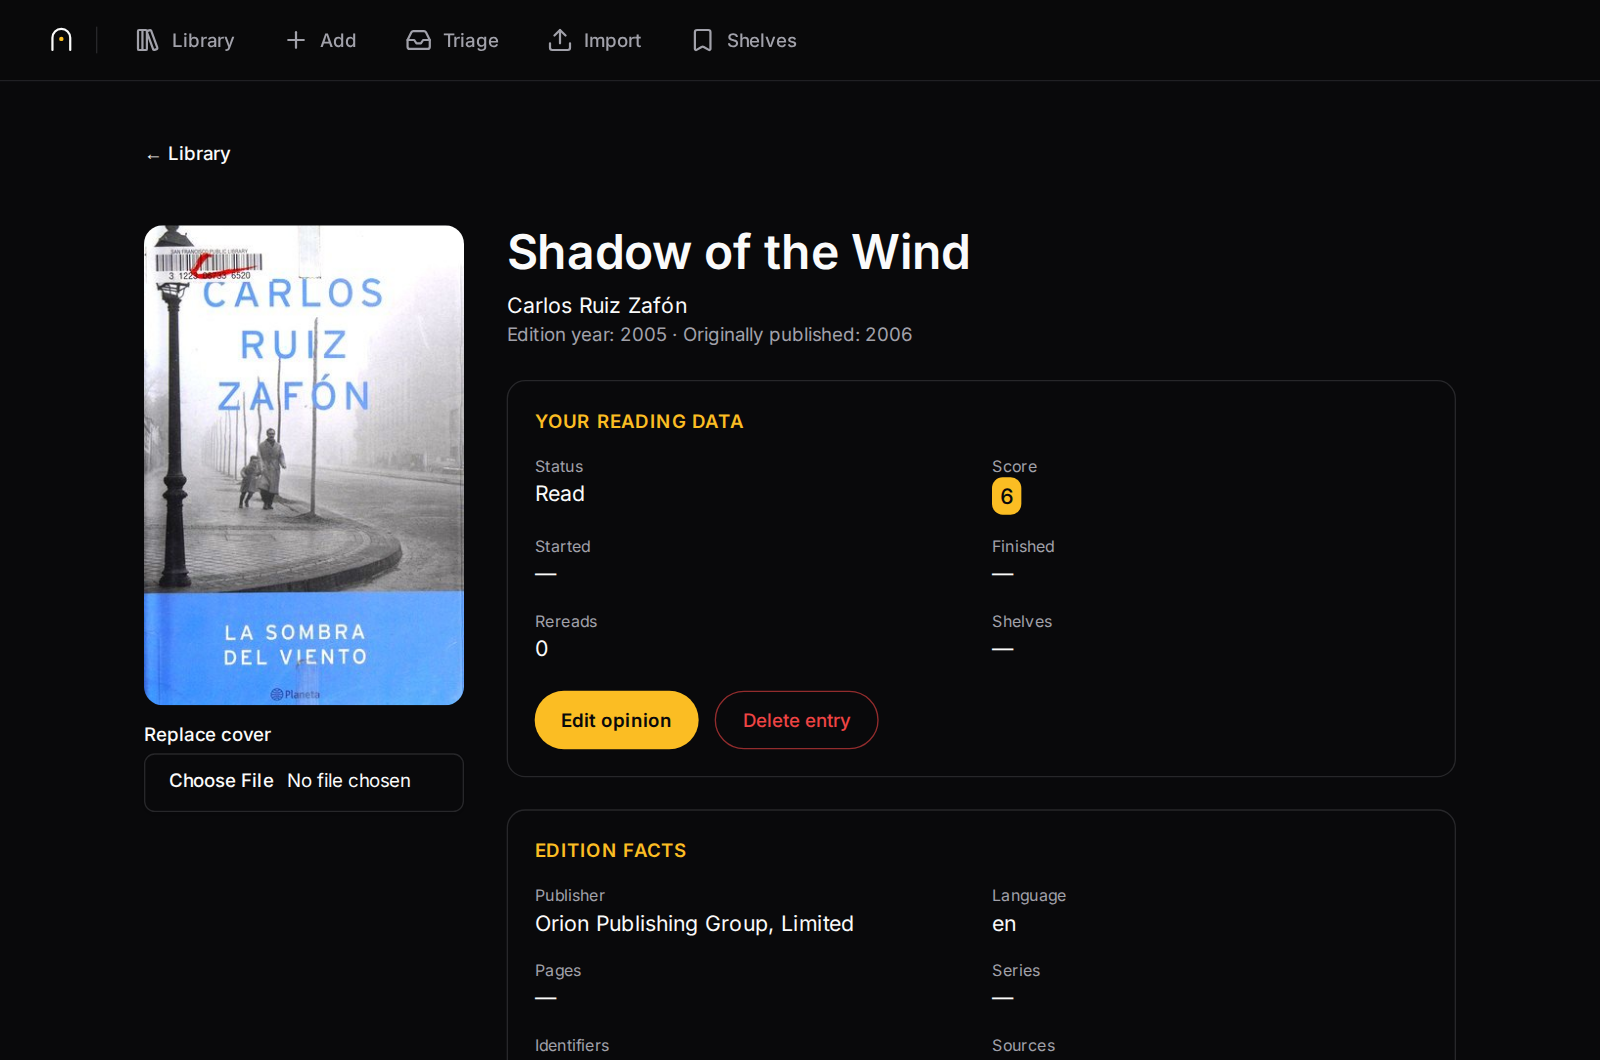
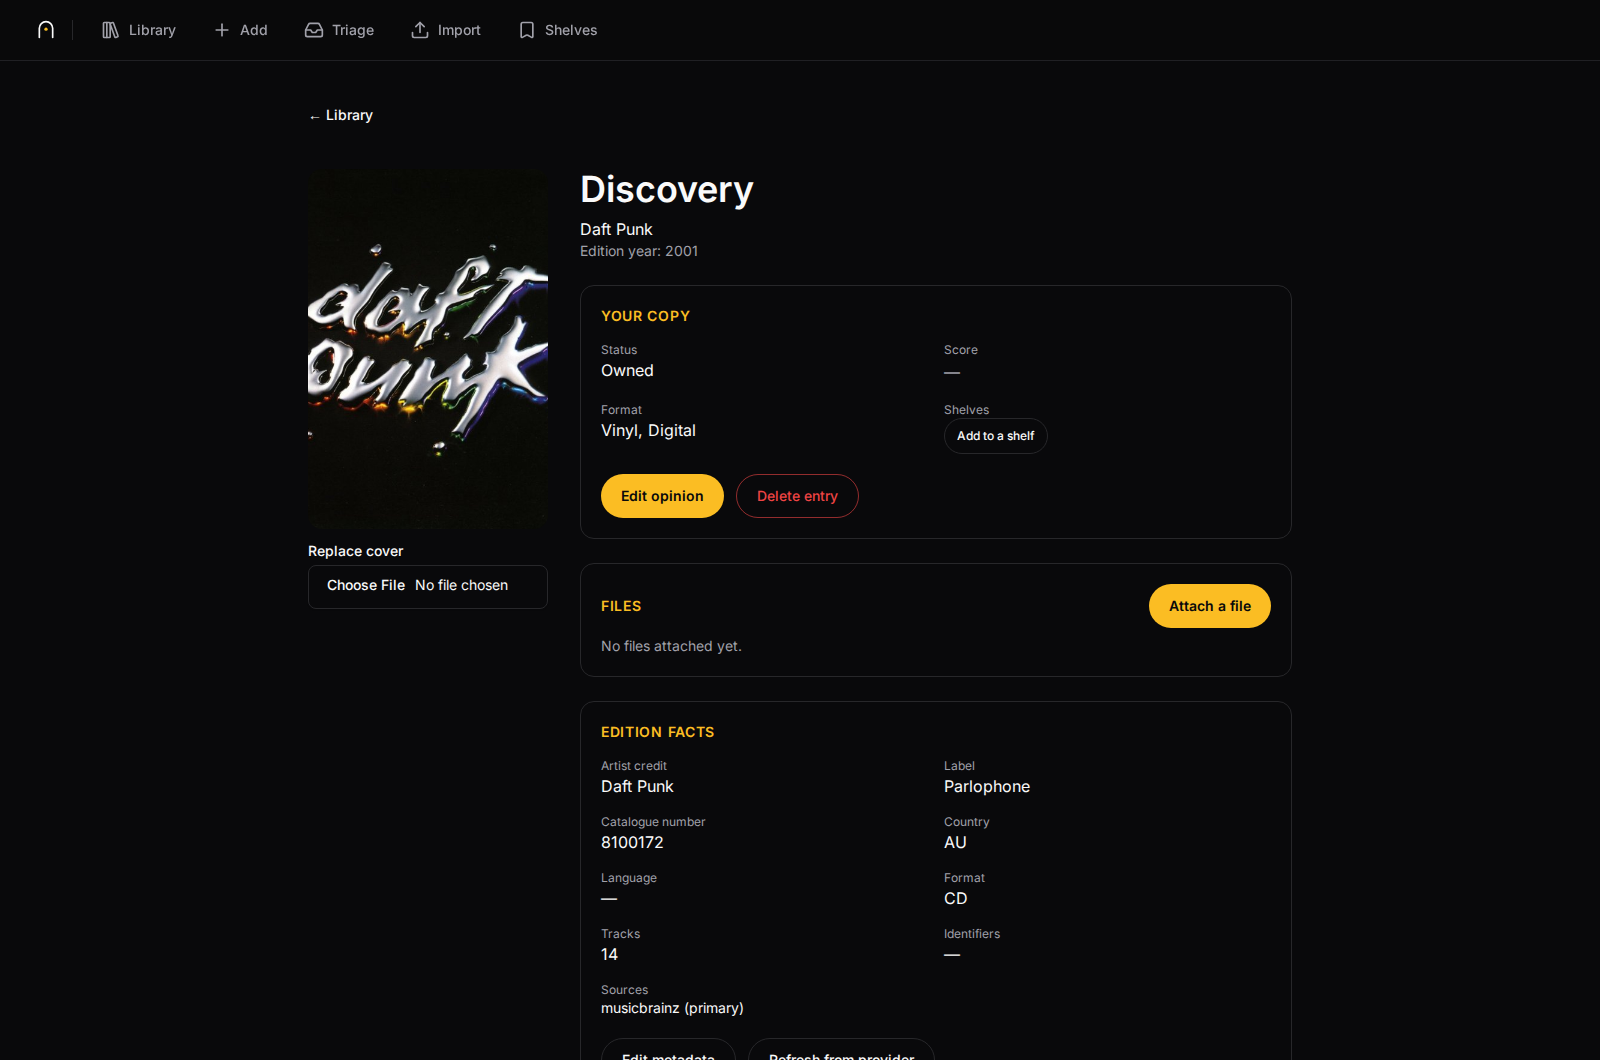
docs: rewrite the README and refresh its screenshots
Screenshots recaptured from the current UI: the library view now shows the
Book/Album domain toggle and the unified add bar, and the detail screenshot
swaps a book for an album to show off domain-specific fields instead of
repeating the book layout.

README rewritten for length and tone: trims the feature list, drops internal
decision-log references from user-facing prose, and states the backup
section plainly instead of contrasting it against an unstated alternative.
Both README and AGENTS.md now note the Seeds methodology this repo follows.

diff --git a/README.md b/README.md
@@ -7,7 +7,7 @@
 
 # Akasha
 
-**A self-hosted library that records what you thought of a book or a record.**
+**A self-hosted library for your thoughts.**
 
 [![License: AGPL v3](https://img.shields.io/badge/License-AGPL_v3-fbbf24?style=flat-square)](LICENSE)
 [![Self-hosted](https://img.shields.io/badge/deploy-LAN%20only-a1a1aa?style=flat-square)](SECURITY.md)
@@ -24,19 +24,12 @@
 
 ## What it is
 
-Akasha is a personal library that runs on a small server in your house. One user,
-no accounts, no social layer, no sharing. You add a book or a record, give it a score
-out of ten, write a note, put it on a shelf.
+You add a book or a record, score it out of ten, write a note, put it on a shelf.
+Reading trackers optimise for other people seeing your opinions and their vendors selling you stuff;
+this optimises for you remembering, three years later, whether something was any good.
 
-It holds **two kinds of thing so far**, and each brings its own vocabulary rather than
-borrowing the other's: a book is *read*, *reading* or *to read* and has a page count; a
-record is *owned*, *on the way* or *wishlisted* and has a tracklist and a label. Nothing
-above the registry knows which is which, so a third kind is a package rather than a
-rewrite.
-
-It exists because reading trackers optimise for other people seeing your shelves.
-This one optimises for you remembering, three years later, whether something was any
-good and why. No social media features, fully offline.
+Akasha is domain agnostic, it's built so you can extend it to hold information on anything you enjoy,
+but today it supports Books and Albums. See [Domains](#domains-and-stack) for more info.
 
 > [!WARNING]
 > **v1 has no authentication of any kind.** Anyone who can reach the port can read
@@ -45,47 +38,23 @@ good and why. No social media features, fully offline.
 
 ## What it does
 
-- **A library that stays fast.** Ten thousand entries scroll smoothly — a virtualized
-  grid and a compact table, keyset pagination, six sorts. Search and sorting are
-  accent-insensitive, so `avila` finds `Ávila`.
-- **One bar for finding and adding.** The same box searches your library as you type and
-  reaches the web only when your library has nothing and the query has settled — or when
-  you press **Add**. Books come from Open Library and Google Books, records from
-  MusicBrainz and the Cover Art Archive; paste a URL or an ISBN and it resolves that
-  instead of guessing. Covers are fetched once and stored locally, and **providers are
-  never called while rendering a page you already have**.
-- **Music, as its own domain.** Records are not books with different words on them: they
-  have their own statuses, their own formats (vinyl, CD, digital), their own fields and
-  their own provider. Adding one says *Album added*, and a shelf that holds both counts
-  *items*.
-- **Your opinions, protected.** Score, status, notes, shelves, and how you own your copy
-  — plus dates and a reread count for the kinds of thing that have them, and none for the
-  kinds that do not. Nothing you
-  wrote is ever overwritten by a metadata refresh — that is an invariant the test suite
-  enforces, not a promise.
-- **Keyboard triage.** Work through a backlog with `j`/`k` to move, digits to score,
-  letters to set status, `Enter` to accept.
-- **Imports with a preview and an undo.** Goodreads CSV and a read-only Calibre
-  library. You see exactly what will happen before it happens, and you can reverse it
-  after.
-- **Background enrichment.** A durable job queue fills in metadata and covers, retries
-  failures, and survives a restart.
-- **Files on an edition.** Attach an epub or a PDF to an edition and download it again
-  later. Stored by content, so the same file attached twice takes the space of one,
-  and seven nights of backups cost about one copy rather than seven. Files are served
-  as downloads and never rendered, and nothing here parses them — this is a shelf, not
-  a reader.
-- **Your library, exportable.** One request dumps everything as JSON, or as a
-  Goodreads-shaped CSV that opens in a spreadsheet. The dump keeps what you typed and
-  leaves out what the application derived, so nothing you corrected by hand is lost and
-  nothing rebuilt from a cache pretends to be authoritative.
-- **Accessible by default.** Twelve automated axe checks gate every change; both list
-  surfaces are proper ARIA feeds.
+- **One box for multiple domains.** Akasha reaches the web for public APIs
+(Open Library, Google Books, MusicBrainz) to find any piece of media you are thinking of.
+Paste a URL or an ISBN and it resolves that instead of guessing.
+- **Record your opinion.** Give it a score out of ten, leave notes if you have them.
+Did you drop the book halfway through? Do you want to buy this album in vinyl some day?
+Add your item to a shelf and give it a status.
+- **Import your library** Importing from existing systems is supported and extensible.
+Bring your own Goodreads CSV, a read-only Calibre library and get your info migrated.
+- **Choose your covers.** If provided by the API, you can choose the cover you see in the library or upload your own.
+What you see in the app should reflect what's in your house.
+- **Upload your files** While not its primary feature, you can attach files to entries,
+in case you need a safe place to store that PDF.
 
 <details>
 <summary><b>An entry's detail page</b></summary>
 
-![An entry's detail page](docs/brand/screenshots/detail.png)
+![An album's detail page](docs/brand/screenshots/detail.png)
 
 </details>
 
@@ -118,17 +87,17 @@ file)? See [Bind-mounting data and backups](#bind-mounting-data-and-backups).
 
 Everything is environment variables, all documented in [`.env.example`](.env.example).
 
-| Variable | Default | What it does |
-|---|---|---|
-| `USER_AGENT_CONTACT` | *required* | Contact address sent to metadata providers |
-| `GOOGLE_BOOKS_API_KEY` | *empty* | Optional. Without it, search uses Open Library alone and Spanish-language coverage is poor |
-| `AKASHA_DATA_VOLUME` | `akasha_data` | Docker volume name for the database, covers and attached files |
-| `AKASHA_BACKUP_VOLUME` | `akasha_backups` | Docker volume name for backups, deliberately outside the data volume |
-| `CALIBRE_DIR` | `./calibre` | Your Calibre library, mounted read-only |
-| `AKASHA_PORT` | `8000` | Published port |
-| `AKASHA_BIND` | `0.0.0.0` | Set to `127.0.0.1` to keep it off the network |
-| `TZ` | `UTC` | Timezone |
-| `LOG_LEVEL` | `INFO` | Log verbosity |
+| Variable               | Default          | What it does                                                                               |
+| ---------------------- | ---------------- | ------------------------------------------------------------------------------------------ |
+| `USER_AGENT_CONTACT`   | *required*       | Contact address sent to metadata providers                                                 |
+| `GOOGLE_BOOKS_API_KEY` | *empty*          | Optional. Without it, search uses Open Library alone and Spanish-language coverage is poor |
+| `AKASHA_DATA_VOLUME`   | `akasha_data`    | Docker volume name for the database, covers and attached files                             |
+| `AKASHA_BACKUP_VOLUME` | `akasha_backups` | Docker volume name for backups, deliberately outside the data volume                       |
+| `CALIBRE_DIR`          | `./calibre`      | Your Calibre library, mounted read-only                                                    |
+| `AKASHA_PORT`          | `8000`           | Published port                                                                             |
+| `AKASHA_BIND`          | `0.0.0.0`        | Set to `127.0.0.1` to keep it off the network                                              |
+| `TZ`                   | `UTC`            | Timezone                                                                                   |
+| `LOG_LEVEL`            | `INFO`           | Log verbosity                                                                              |
 
 Check which providers are live:
 
@@ -140,8 +109,8 @@ curl -s localhost:8000/api/health/providers
 
 `data` and `backups` are named Docker volumes by default. Prefer real host directories
 — a NAS-backed `BACKUP_DIR`, or direct host access to the sqlite file? Opt into
-[`compose.bind-mounts.yaml`](compose.bind-mounts.yaml), which brings back the pre-DEC-075
-mounts and their one extra requirement:
+[`compose.bind-mounts.yaml`](compose.bind-mounts.yaml), which mounts them as real host
+directories instead, with one extra requirement:
 
 ```bash
 mkdir -p data backups
@@ -153,24 +122,17 @@ Use the same two `-f` flags on every later `docker compose` command for this sta
 
 ### Backups
 
-There is a real backup, and the restore has been tested rather than described.
+Take one now, or schedule it nightly:
 
 ```bash
-# One backup now
-./scripts/backup.sh
-
-# Nightly, from the host's crontab — not from inside the container
-15 3 * * *  cd /srv/akasha && ./scripts/backup.sh >> /var/log/akasha-backup.log 2>&1
+./scripts/backup.sh                                                       # now
+15 3 * * *  cd /srv/akasha && ./scripts/backup.sh >> /var/log/akasha-backup.log 2>&1  # nightly, host crontab
 ```
 
-Each run copies the database through SQLite's online backup API (never a file copy of
-a live WAL database), archives covers and import metadata, hardlinks attached files so
-each night does not pay for a fresh copy of them, writes checksums, verifies itself
-with `PRAGMA integrity_check`, and keeps the last `BACKUP_RETENTION` nights.
-
-Upgrades take their own backup first: if a migration has pending work against an
-existing database, startup copies it before touching anything and refuses to migrate
-if it cannot.
+Each run backs up the live database through SQLite's own backup API, archives covers,
+hardlinks attached files so a week of backups costs about one copy, checksums and
+verifies itself, and keeps the last `BACKUP_RETENTION` nights. An upgrade takes its own
+backup first and refuses to migrate if it can't.
 
 Restore, rollback and reverse-proxy guidance are in
 **[the operator runbook](docs/operations/runbook.md)**.
@@ -188,98 +150,55 @@ make dev-backend    # terminal 1 — API at http://localhost:8000
 make dev-frontend   # terminal 2 — UI at http://localhost:5173
 ```
 
-| Command | What it does |
-|---|---|
-| `make check` | Format check, lint, types, project state, OpenAPI drift |
-| `make test` | Backend and frontend unit tests |
-| `make format` | Apply formatting |
-| `make build` | Python wheel and production SPA |
-| `make migrate` | Upgrade the configured database |
+| Command                | What it does                                                                                                                                           |
+| ---------------------- | ------------------------------------------------------------------------------------------------------------------------------------------------------ |
+| `make check`           | Format check, lint, types, project state, OpenAPI drift                                                                                                |
+| `make test`            | Backend and frontend unit tests                                                                                                                        |
+| `make format`          | Apply formatting                                                                                                                                       |
+| `make build`           | Python wheel and production SPA                                                                                                                        |
+| `make migrate`         | Upgrade the configured database                                                                                                                        |
 | `make smoke-container` | Full container proof: healthcheck, non-root, persistence across recreation, every asset chunk, read-only Calibre, backup and restore, graceful SIGTERM |
-| `npm run test:e2e` | Playwright, in `frontend/` — dev server *and* a real production build |
+| `npm run test:e2e`     | Playwright, in `frontend/` — dev server *and* a real production build                                                                                  |
 
-### Stack
+### Domains and stack
 
-FastAPI, SQLAlchemy, Alembic and SQLite on the backend. React 18, Vite, TypeScript,
+FastAPI, SQLAlchemy, Alembic and SQLite on the backend; React 18, Vite, TypeScript,
 Tailwind, shadcn/ui and TanStack Query on the frontend. One container, one process,
 one SQLite file.
 
-### Domains
+A **domain** is a kind of thing the library holds — a book, an album. Each lives in its
+own package under `backend/src/book_tracker/domains/`, declaring its fields, statuses,
+formats, identity rule and provider; that declaration is served over the API and every
+screen renders from it, so nothing above the registry branches on type. Adding one
+costs a package, a registry entry and provider wiring — no migration, no edit to
+another domain's files. See **[how to add a domain](docs/guides/adding-a-domain.md)**,
+binding contract in [technical spec §6.6](docs/specs/technical-spec.md).
 
-A **domain** is a kind of thing the library holds. Books ship; albums are built and
-waiting to be released. The point of the structure is that a third one — games, films,
-board games — is somebody else's afternoon rather than a fork.
+## Documentation
 
-```text
-backend/src/book_tracker/
-├── api/             # thin FastAPI routers and error mapping
-├── application/     # use cases and transaction boundaries
-├── domain/          # spec.py: what a domain IS · registry.py: which ones EXIST
-├── domains/         # one package per domain
-│   ├── book/        #   declaration · Open Library + Google Books · Goodreads + Calibre
-│   └── album/       #   declaration · MusicBrainz + Cover Art Archive
-├── infrastructure/  # SQLAlchemy, provider HTTP, covers, jobs
-└── main.py
-```
-
-A domain declares its metadata fields, its status vocabulary, its formats, its identity
-rule and what it recognises in the add box. **That one declaration is served over the API
-and every screen renders from it** — tabs, chips, the metadata dialog, triage hotkeys, the
-detail page. There is no `if item_type == "book"` anywhere above the registry, and a
-conformance suite parametrised over the registry holds every domain to the same contract
-*by existing*.
-
-Adding one costs your own package, one registry entry, provider wiring and three enum
-lines. **No database migration, and no edit to another domain's files.**
-
-→ **[How to add a domain](docs/guides/adding-a-domain.md)** · the binding contract is
-[technical spec §6.6](docs/specs/technical-spec.md)
-
-### The documentation
-
-[`docs/README.md`](docs/README.md) is the map. Every document there says whether it is
-**canonical**, **historical** or a **proposal**, so a dated file is never mistaken for
-instructions.
-
-Architecture and contracts live in [the technical spec](docs/specs/technical-spec.md);
-product behaviour is canonical in [the product spec](docs/specs/product-spec.md).
-Every material decision, with its reasoning, is in [`docs/decisions.md`](docs/decisions.md).
-
-### A note on how this was built
+[`docs/README.md`](docs/README.md) is the map, and says whether each document is
+canonical, historical or a proposal. Product behaviour is canonical in the
+[product spec](docs/specs/product-spec.md); architecture and contracts in the
+[technical spec](docs/specs/technical-spec.md); every material decision, with its
+reasoning, in [`docs/decisions.md`](docs/decisions.md). Visual identity — palette,
+type, the mark — is in [`docs/brand/`](docs/brand/).
 
 Akasha was built by an AI coding agent working sprint by sprint under a protocol in
-[`AGENTS.md`](AGENTS.md), with a human owner making the product decisions. The sprint
-files, the decision log and the worklog in `docs/` are the real record of that,
-including the parts that went wrong. If you are curious about what that process
-actually produces, that directory is more honest than most write-ups.
-
-## Design
-
-The visual identity — palette, typography, the mark and how it is constructed — is in
-[`docs/brand/`](docs/brand/). The short version: zinc-950 ground, a single amber
-accent, Inter, and a mark drawn on Lucide's 24px grid so it sits beside the interface
-icons as a sibling.
+[`AGENTS.md`](AGENTS.md), with a human owner making the product decisions, following
+the [Seeds](https://github.com/mauroibz/seeds) methodology for agentic development.
+The sprint files, decision log and worklog in `docs/` are the real record of that,
+mistakes included.
 
 ## Contributing
 
 Issues and pull requests are welcome. **[`CONTRIBUTING.md`](CONTRIBUTING.md)** has the
-setup, the gates and the rules that are not style preferences. Three things worth knowing
-before you open it:
-
-- **Adding a domain has its own guide** —
-  [`docs/guides/adding-a-domain.md`](docs/guides/adding-a-domain.md). You should never
-  have to reverse-engineer how albums were built.
-- [`AGENTS.md`](AGENTS.md) governs how changes are made here, and the verification gates
-  are strict on purpose.
-- Provider fixtures in `backend/tests/fixtures/providers/` are pinned recordings of
-  real API responses. **Never re-record one to make a test pass** — that turns a
-  regression test into a rubber stamp.
+setup and the gates. Provider fixtures in `backend/tests/fixtures/providers/` are
+pinned recordings of real API responses — never re-record one to make a test pass,
+that turns a regression test into a rubber stamp.
 
 ## License
 
-[GNU AGPL v3](LICENSE). You may run, modify and share Akasha freely, including inside
-an institution. If you redistribute it or run a modified version as a network service,
-you must publish your source under the same licence.
-
-For redistribution or hosting **without** those obligations, a separate commercial
-licence is available — see [COMMERCIAL-LICENSE.md](COMMERCIAL-LICENSE.md).
+[GNU AGPL v3](LICENSE). Run, modify and share Akasha freely, including inside an
+institution. Redistributing it, or running a modified version as a network service,
+requires publishing your source under the same licence — for hosting or redistribution
+without that obligation, see [COMMERCIAL-LICENSE.md](COMMERCIAL-LICENSE.md).

diff --git a/AGENTS.md b/AGENTS.md
@@ -2,6 +2,8 @@
 
 This is the single entrypoint for any coding agent working in this repository. A user instruction of `work` means: execute exactly one active sprint using this protocol, stopping only when it is complete or genuinely blocked.
 
+This protocol follows the [Seeds](https://github.com/mauroibz/seeds) methodology for agentic development.
+
 ## 1. Establish context
 
 From the repository root:
